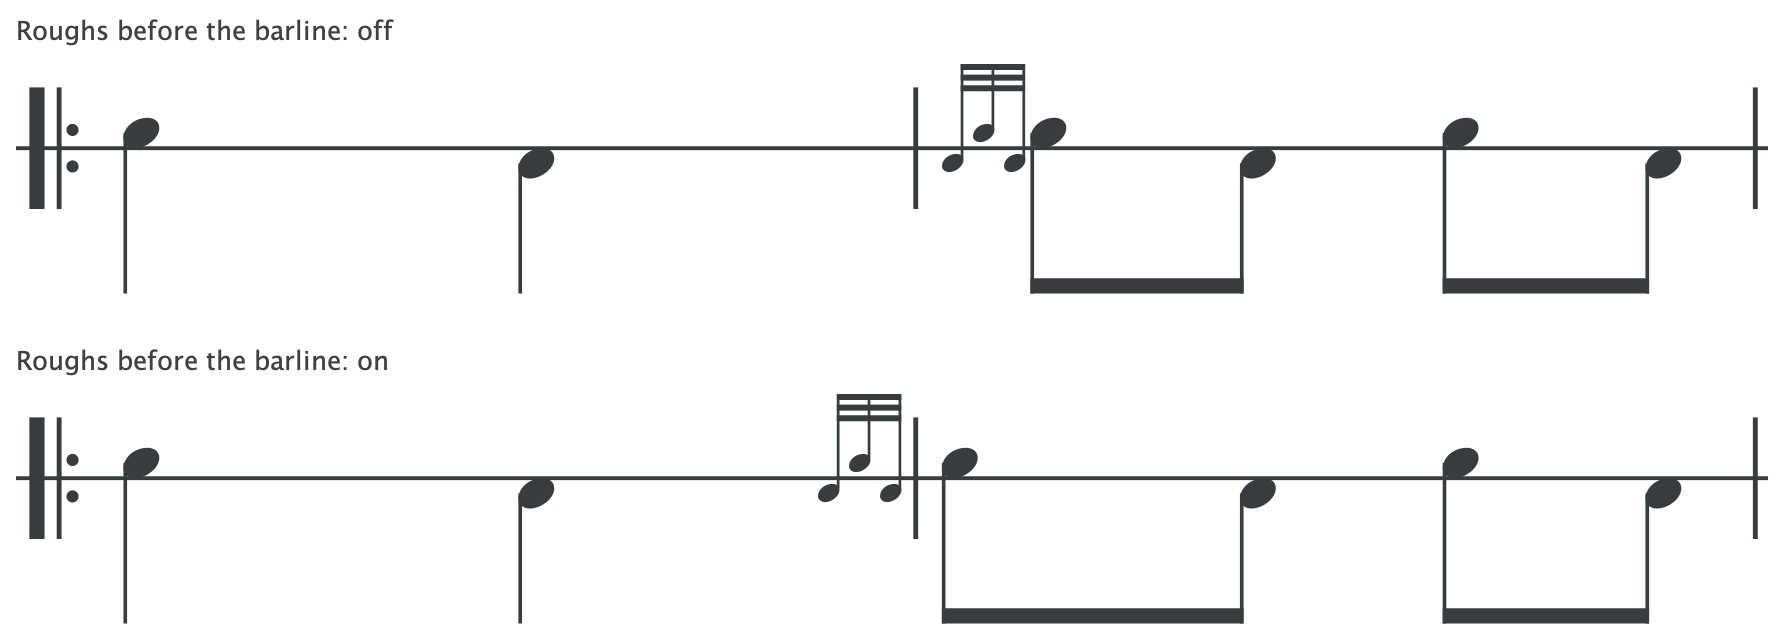
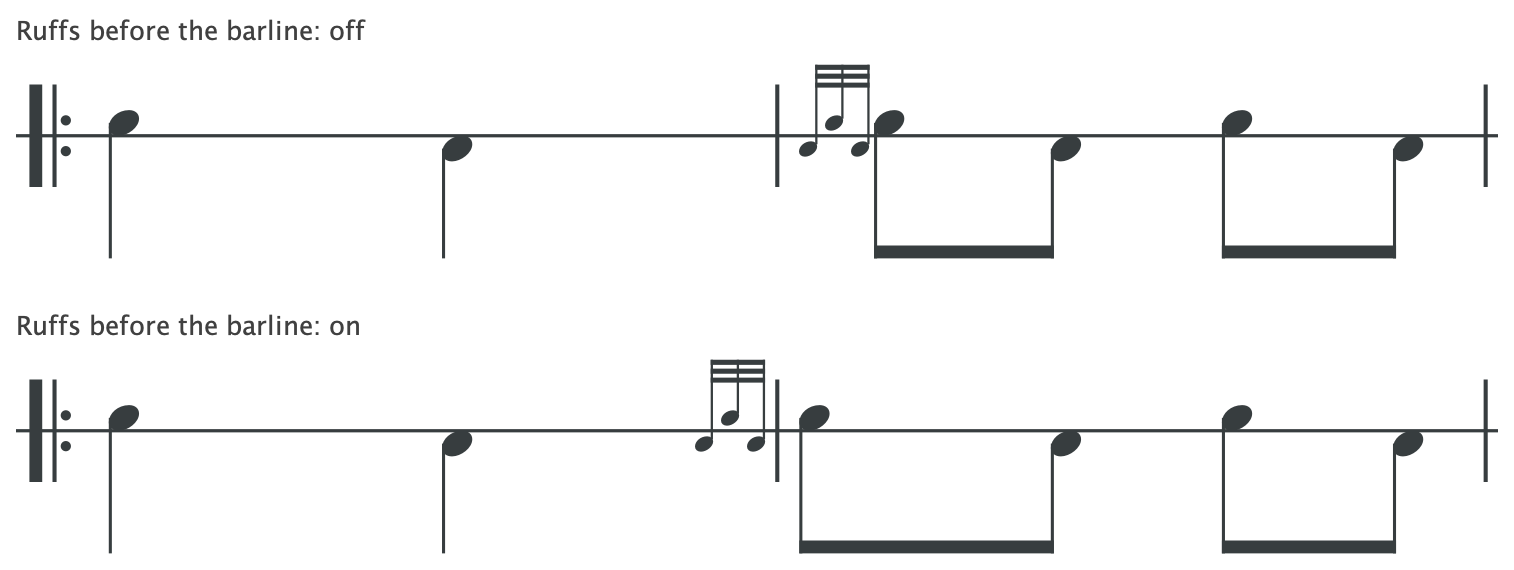
Rudiments: the application now says ruff everywhere; three pictures repainted (editor #836)
Claude-Session: https://claude.ai/code/session_01C1Ge6EDzSan1bZiKA9Avaa

diff --git a/en/v4/rudiments.md b/en/v4/rudiments.md
@@ -23,26 +23,26 @@ A key and a menu item treat a mixed selection differently. The key changes each 
 | A flam | `Z` | `Flam [z]` | `Flam` |
 | A drag | `X` | `Drag [x]` | `Drag` |
 | An open drag | `C` | `Open drag [c]` | `Open Drag` |
-| A Swiss ruff | `V` | `Swiss rough [v]` | `Swiss Ruff` |
-| A ruff | `B` | `Rough [b]` | `Ruff` |
+| A Swiss ruff | `V` | `Swiss ruff [v]` | `Swiss Ruff` |
+| A ruff | `B` | `Ruff [b]` | `Ruff` |
 
 You do not choose left or right. The grace notes are written on the hand opposite the note they lead into. To change the hand of a note, press `Shift+K` or choose `Note` ▸ `Swap Hands`. The grace notes change sides with it.
 
 A note carries one of these at a time. Putting a drag on a note that has a flam replaces the flam.
 
-A ruff is also known as a rough, and some of the application's labels spell it that way.
+A ruff is also known as a rough.
 
 To write a Swiss ruff that stands by itself, with no main note, press `I` for the left hand or `Shift+I` for the right. It takes up no time in the bar.
 
 ![A flam, a drag, an open drag, a Swiss ruff and a ruff](images/v4/grace-notes.png){: width="495" }
 
-### Roughs before the barline
+### Ruffs before the barline
 
-A Swiss ruff or a ruff on the first note of a bar can be drawn before the barline, leading into the bar, with its note-head on the beat. Tick `Roughs before the barline` in the `Engraving` pane. It only happens where the bar before leaves room. Nothing is moved to make space. This setting needs the Studio Edition.
+A Swiss ruff or a ruff on the first note of a bar can be drawn before the barline, leading into the bar, with its note-head on the beat. Tick `Ruffs before the barline` in the `Engraving` pane. It only happens where the bar before leaves room. Nothing is moved to make space. This setting needs the Studio Edition.
 
 The `Engraving` pane is in `Settings` ▸ `New Score Defaults` for new scores, and in `File` ▸ `Score Properties…` for the score in front of you. See [Score Properties](topic:score-properties).
 
-![The same two bars with the ruff inside the bar, and with it drawn before the barline](images/v4/roughs-before-barline.png){: width="892" }
+![The same two bars with the ruff inside the bar, and with it drawn before the barline](images/v4/roughs-before-barline.png){: width="757" }
 
 ## Rolls and buzzes
 

diff --git a/en/v4/score-properties.md b/en/v4/score-properties.md
@@ -65,7 +65,7 @@ In the Community Edition every row of this pane is shown but cannot be changed.
 | `Allow barlines to move` | Beautify places the barlines as well as the notes. `Standard` layout with `TraditionalSpacing` only, otherwise greyed and unticked. Studio Edition. |
 | `Beautify tuplets as they are made` | Making a tuplet re-spaces its bar. Greyed and unticked as the row above is. Studio Edition. |
 | `Proportional Spacing` | Where the caret goes after each note you type. See [Entering Notes](topic:entering-notes). |
-| `Roughs before the barline` | Draws a ruff on the first note of a bar before the barline, where there is room. Studio Edition. See [Rudiments, Rolls and Tuplets](topic:rudiments). |
+| `Ruffs before the barline` | Draws a ruff on the first note of a bar before the barline, where there is room. Studio Edition. See [Rudiments, Rolls and Tuplets](topic:rudiments). |
 
 **Accents and roll ties.** See [Rudiments, Rolls and Tuplets](topic:rudiments).
 

diff --git a/en/v4/licensing.md b/en/v4/licensing.md
@@ -46,7 +46,7 @@ A new score in the Community Edition starts from fixed values and keeps to one p
 |---|---|---|
 | Writing music | `Marcato`, `Tenuto`, `Staccato` and `Fermata` on a note, and the `Dynamic` submenu | [Rudiments, Rolls and Tuplets](topic:rudiments) |
 | | Automatic beaming, and `Beams at Subdivision of Beat` | [Entering Notes](topic:entering-notes) |
-| | `Roughs before the barline` | [Rudiments, Rolls and Tuplets](topic:rudiments) |
+| | `Ruffs before the barline` | [Rudiments, Rolls and Tuplets](topic:rudiments) |
 | | The `Rudiments` panel and rudiment libraries | [Rudiments, Rolls and Tuplets](topic:rudiments) |
 | | `View` ▸ `Markup`, to hide dynamics, highlight marks and unison marks without removing them | [Rudiments, Rolls and Tuplets](topic:rudiments) |
 | | The Bar Audit, which marks a bar that holds too much or too little | [Entering Notes](topic:entering-notes) |
